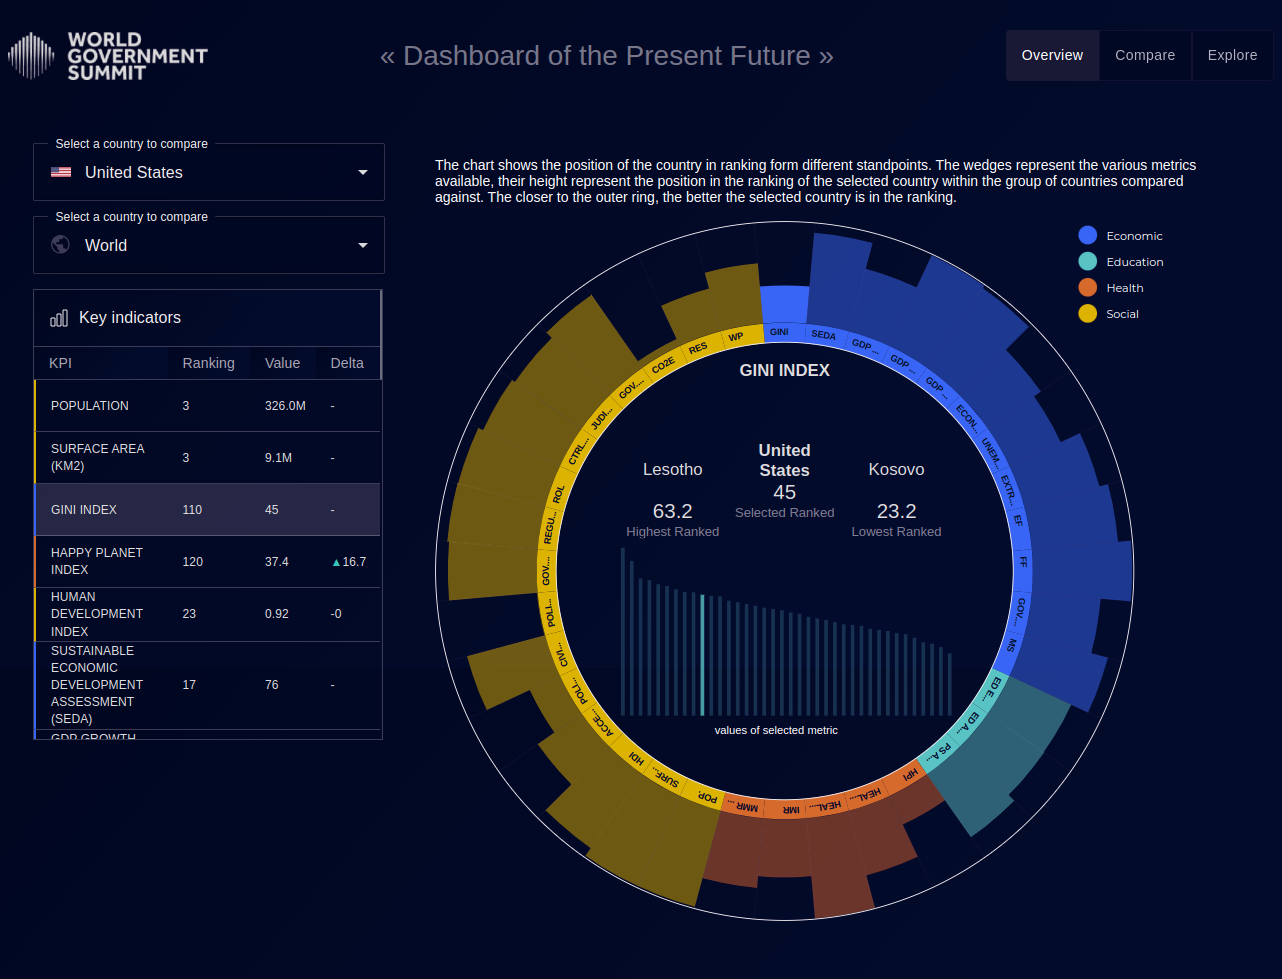
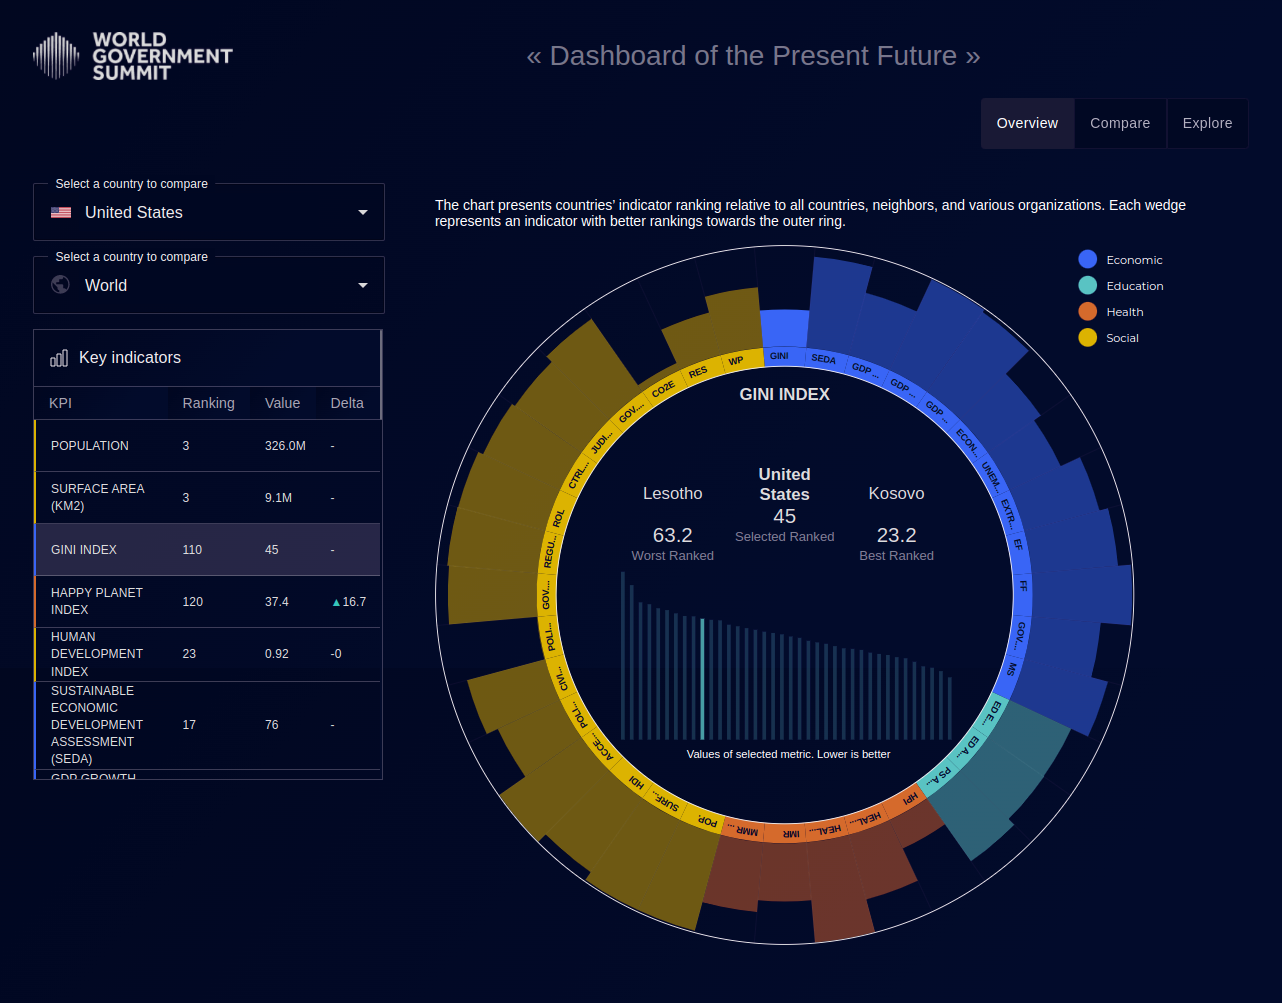
feat: Center page title + update wdvp.png

diff --git a/pages/_app.tsx b/pages/_app.tsx
@@ -13,16 +13,25 @@ import '../styles/main.css';
 
 const StyledHeader = styled('header')({
   width: '100%',
-  height: '95px',
-  display: 'flex',
-  flex: 1,
-  color: 'white',
-  justifyContent: 'center',
-  position: 'relative',
-  alignItems: 'center',
-  fontSize: '28px',
-  lineHeight: '40px',
-  margin: '0 auto',
+  '& > div': {
+    display: 'flex',
+    flex: 1,
+    color: 'white',
+    justifyContent: 'flex-start',
+    position: 'relative',
+    alignItems: 'center',
+    fontSize: '28px',
+    lineHeight: '40px',
+    margin: '0 auto',
+
+    '&:first-child': {
+      margin: '0 auto',
+      height: '95px',
+    },
+    '&:last-child': {
+      height: '40px',
+    }
+  }
 });
 
 const StyledButton = styled(Button)({
@@ -102,34 +111,45 @@ export default function App({ Component, pageProps }: AppProps) {
   return (
     <Provider store={store}>
       <StyledHeader>
-        <Image
-          src="/header-logo1.png"
-          height={48}
-          width={200}
-          alt="Logo Image"
-          style={{
-            marginRight: 'auto',
-            marginLeft: '25px',
-          }}
-        />
-        <div style={{ color: 'rgba(238, 238, 238, 0.5)' }}>« Dashboard of the Present Future »</div>
-        <NavButtonsContainer>
-          {charts.map((props) => (
-            <NavButton
-              key={props.href}
-              onClick={() => {
-                setCurrentChart(props.chartType);
-                router.push(props.href);
-              }}
-              selected={currentChart === props.chartType}
-              text={props.text}
-            />
-          ))}
-        </NavButtonsContainer>
+        <div>
+          <Image
+            src="/header-logo1.png"
+            height={48}
+            width={200}
+            alt="Logo Image"
+            style={{
+              marginLeft: '25px',
+            }}
+          />
+          <div
+            style={{
+              color: 'rgba(238, 238, 238, 0.5)',
+              margin: '0 auto',
+            }}
+          >
+            « Dashboard of the Present Future »
+          </div>
+        </div>
+        <div>
+          <NavButtonsContainer>
+            {charts.map((props) => (
+              <NavButton
+                key={props.href}
+                onClick={() => {
+                  setCurrentChart(props.chartType);
+                  router.push(props.href);
+                }}
+                selected={currentChart === props.chartType}
+                text={props.text}
+              />
+            ))}
+
+          </NavButtonsContainer>
+        </div>
       </StyledHeader>
       <main style={{ padding: '0 50px 50px 25px' }}>
         <Component {...pageProps} />
       </main>
-    </Provider>
+    </Provider >
   );
 }
